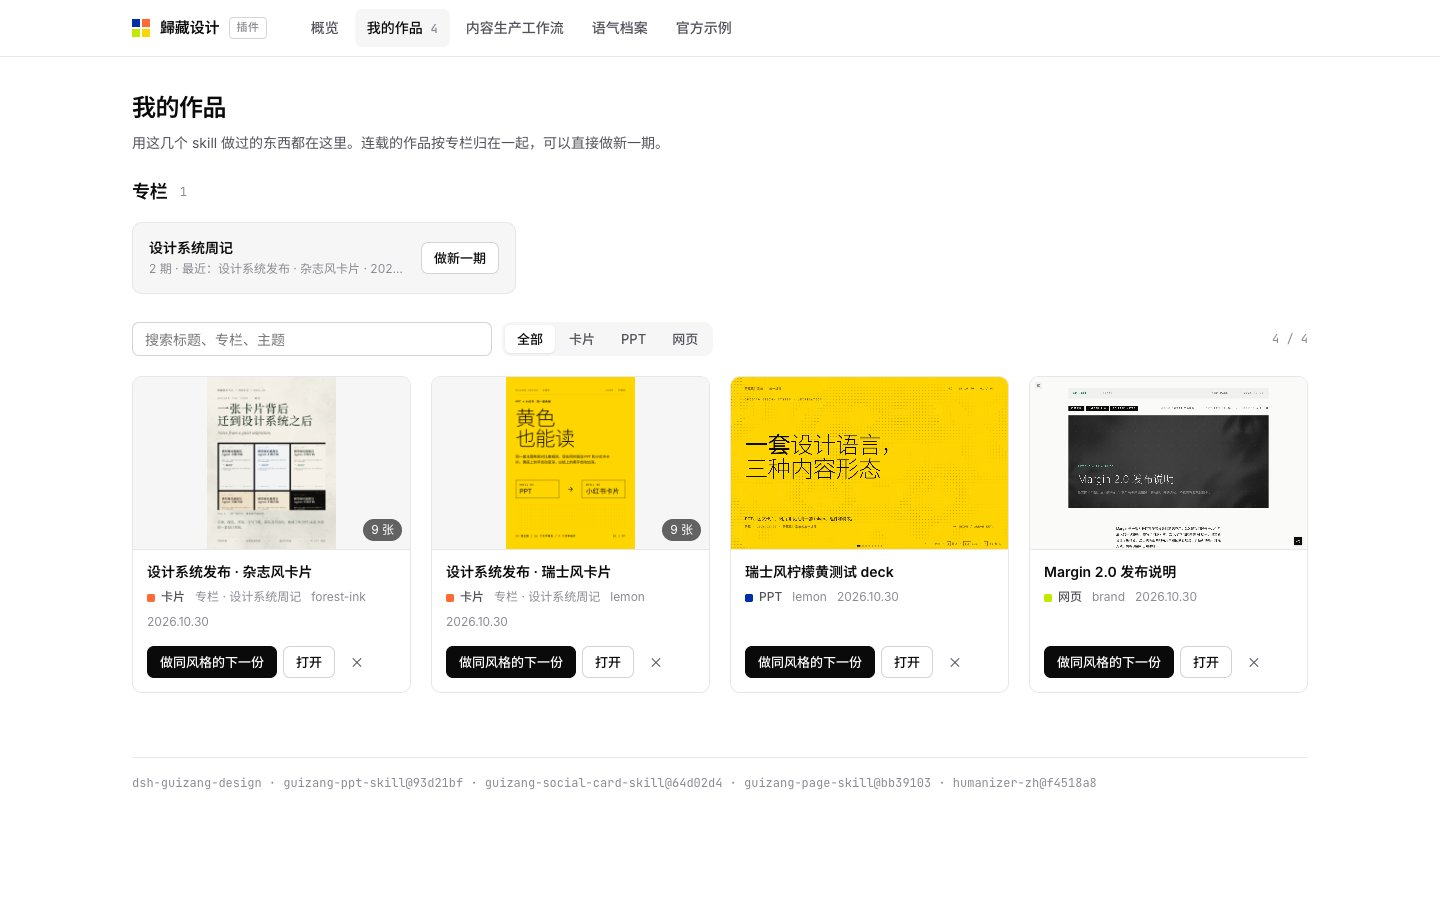
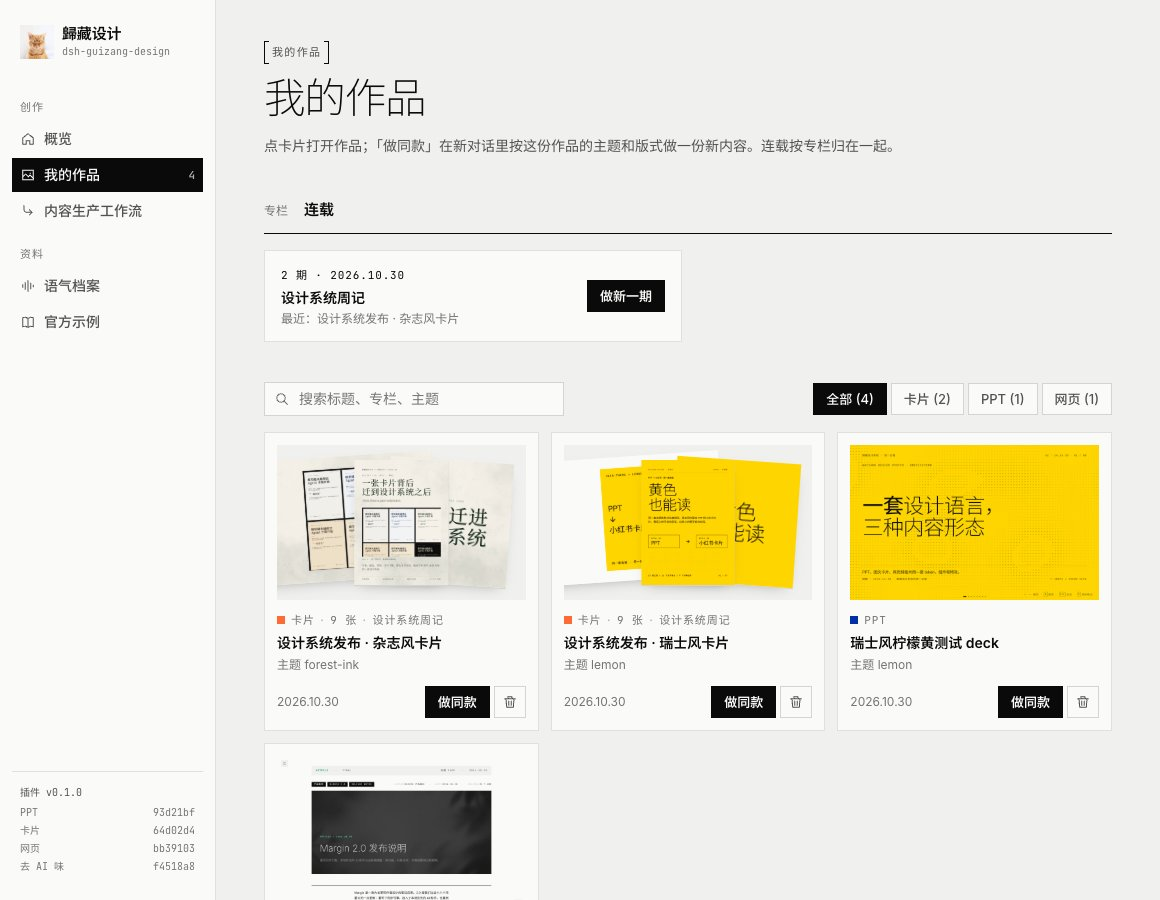
README: 做同款 / 使用工作流 / voice from DeepSeek chats; refresh works screenshot

diff --git a/README.md b/README.md
@@ -3,7 +3,7 @@
 DeepSeek Harness（dsh）插件。把歸藏的四个 skill 装进 dsh，并在侧栏加一个「歸藏设计」页面：
 
 - **网页 PPT**（guizang-ppt-skill）、**图文卡片**（guizang-social-card-skill）、**网页排版**（guizang-page-skill）、**去 AI 味**（humanizer-zh）。前三个共用一套设计系统：同样的杂志风 / 瑞士风主题、字号、字体和背景特效，品牌色按色彩科学生成受约束的主题。
-- **作品库**：官方示例和你做过的作品。每份作品都可以「做同风格的下一份」：在新对话里填好草稿，补上内容就能发。
+- **作品库**：官方示例和你做过的作品。每份作品都可以「做同款」：在新对话里按这份作品的主题和版式填好草稿，补上内容就能发。
 - **内容生产工作流**：跨 skill 的常用组合——一篇文章三种出口、先去 AI 味再排版、演讲回收、品牌套件、封面矩阵、中英双版本。
 - **专栏**：连载的各期放在一起，一键做新一期，沿用上一期的主题和版式。
 - **语气档案**（guizang-voice）：读你在 DeepSeek 里发过的消息（尤其是大段的文字），也可以补充你写过的文章，学出你的写作习惯，存成本机的一份档案。去 AI 味时保留你本来的说法，让 AI 仿写时照着你的语气写。
@@ -23,7 +23,8 @@ dsh plugin --profile web add github:op7418/dsh-guizang-design
 
 ## 使用
 
-- 侧栏点「歸藏设计」打开插件页面；点 skill 卡片、「使用这个工作流」「做同风格的下一份」会开一个新对话并填好草稿。
+- 侧栏点「歸藏设计」打开插件页面；点 skill 卡片、「使用工作流」「做同款」会开一个新对话并填好草稿。
+- 语气档案页点「从我的 DeepSeek 对话学习」：插件把你在 DeepSeek 里发过的消息整理成学习素材，开一个新对话让 AI 建档，学完的档案显示在这一页。
 - 也可以在输入框里直接打 `/guizang-ppt-skill`、`/guizang-social-card-skill`、`/guizang-page-skill`、`/humanizer-zh`、`/guizang-voice`。
 - skill 交付作品后会自己登记进作品库；手动登记：
 
@@ -41,7 +42,7 @@ dsh plugin --profile web add github:op7418/dsh-guizang-design
 
 - `skills/` 是四个独立仓库的快照（`skills/manifest.json` 记着来源和提交），不要直接改：改各自的仓库，再运行 `node tools/vendor-skills.mjs`。
 - `examples/` 由 `node tools/vendor-examples.mjs <guizang-design 路径>` 从设计系统仓库的 demo 生成。
-- `gallery/gz-magazine.css` 由设计系统生成（`guizang-design/scripts/sync-skill.mjs studio <本仓库>`）。
+- `gallery/gz-swiss.css`（瑞士风的颜色、字体、间距 token）由设计系统生成（`guizang-design/scripts/sync-skill.mjs studio <本仓库>`）。
 - `npm test` 跑插件自己的测试；本地调试：`dsh plugin --profile web add link:$PWD`。
 
 ## License
